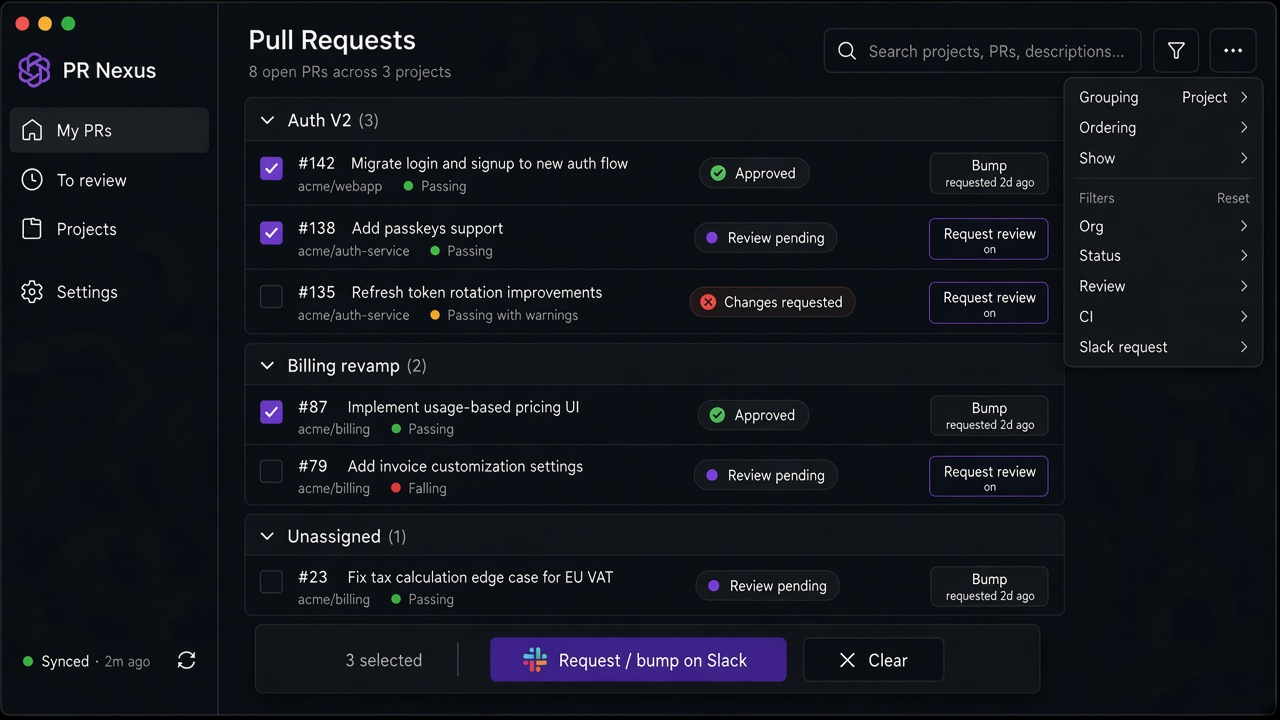
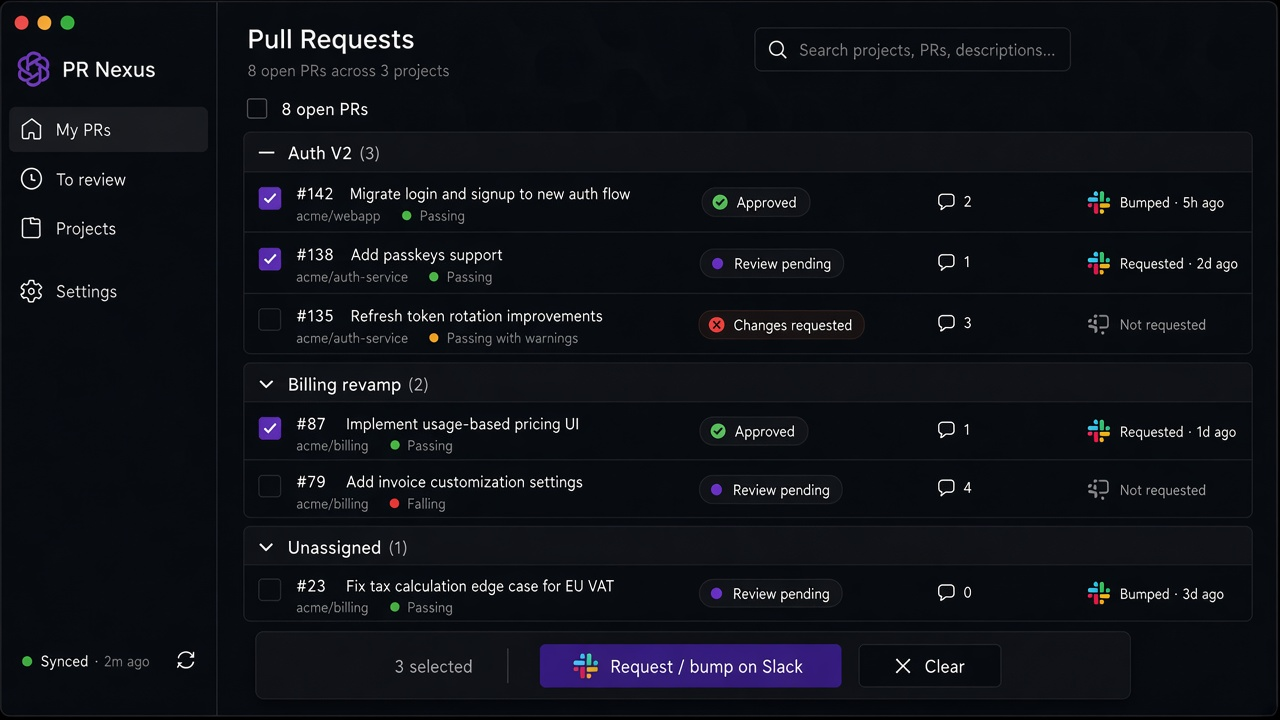
docs(ui): refresh list-view mockup with request indicators; crop Slack preview to the modal

diff --git a/docs/SPEC.md b/docs/SPEC.md
@@ -812,13 +812,11 @@ Nothing org-specific is hard-coded or shipped: GitHub orgs, Slack workspaces, te
 - muted text, one accent color (violet) for the primary action and the selection, status pills for review decision.
 
 Approved mockups (AI-generated; style references, not pixel specs):
-- [`docs/ui/list-view.jpg`](ui/list-view.jpg): list, filter menu, sync footer, bulk bar. Known differences, where the spec wins:
-  - the **per-row Request/Bump buttons are superseded**: rows have no action buttons, only the request indicator below;
-  - it omits the unresolved-thread count, **which must still be shown** (💬 n);
-  - the filter menu anchors **under the funnel button** (in the mockup it floats near a header `⋯` button);
-  - the header `⋯` overflow button is **removed**;
-  - it lacks the global tri-state checkbox in the list header.
-- [`docs/ui/slack-preview.jpg`](ui/slack-preview.jpg): the Slack preview modal. The list behind it is filler. The rendered message is illustrative: the real text is the §7.6 template, byte-exact, and the sender shown is **you** (messages are posted with your user token), not an "APP" bot.
+- [`docs/ui/list-view.jpg`](ui/list-view.jpg): list, sync footer, bulk bar, per-row request indicator (Slack icon + `Requested · 2d ago` / `Bumped · 5h ago` / dimmed `Not requested`; no action buttons on rows). Known differences, where the spec wins:
+  - the **funnel filter button** next to the search bar is missing in the mockup but required;
+  - project section headers need their own tri-state checkbox (the mockup only shows the collapse chevron);
+  - the request indicator also carries the ↗ link to the original Slack message.
+- [`docs/ui/slack-preview.jpg`](ui/slack-preview.jpg): the Slack preview modal only (cropped; in the app it sits centered over the dimmed list view). The rendered message is illustrative: the real text is the §7.6 template, byte-exact, and the sender shown is **you** (messages are posted with your user token), not an "APP" bot. Bumps appear in a separate "Bump · thread reply" group per channel.
 
 **Layout.**
 - **Sidebar** (navigation only, no persistent filters): My PRs, To review, Projects, Settings. There is no org checkbox list here; orgs are a filter in the menu.
